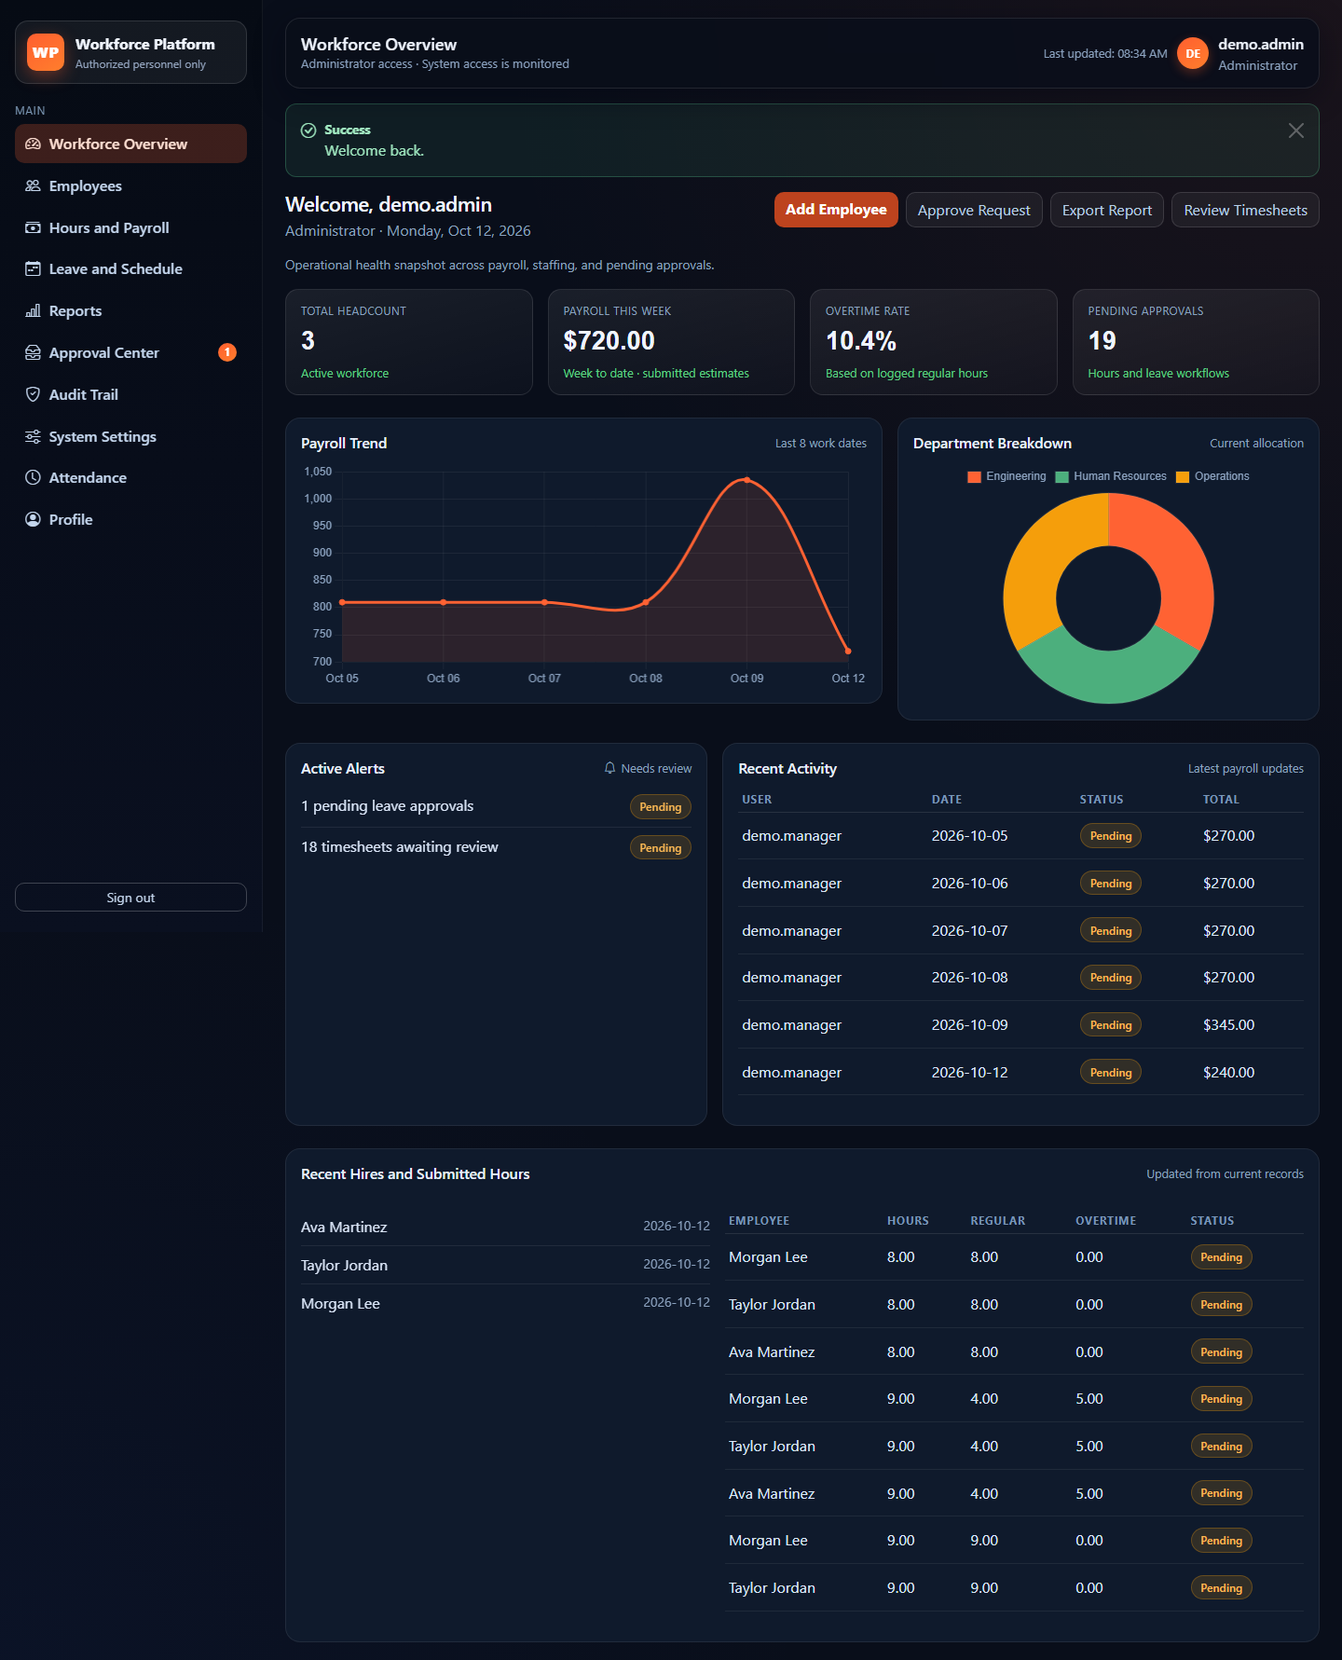
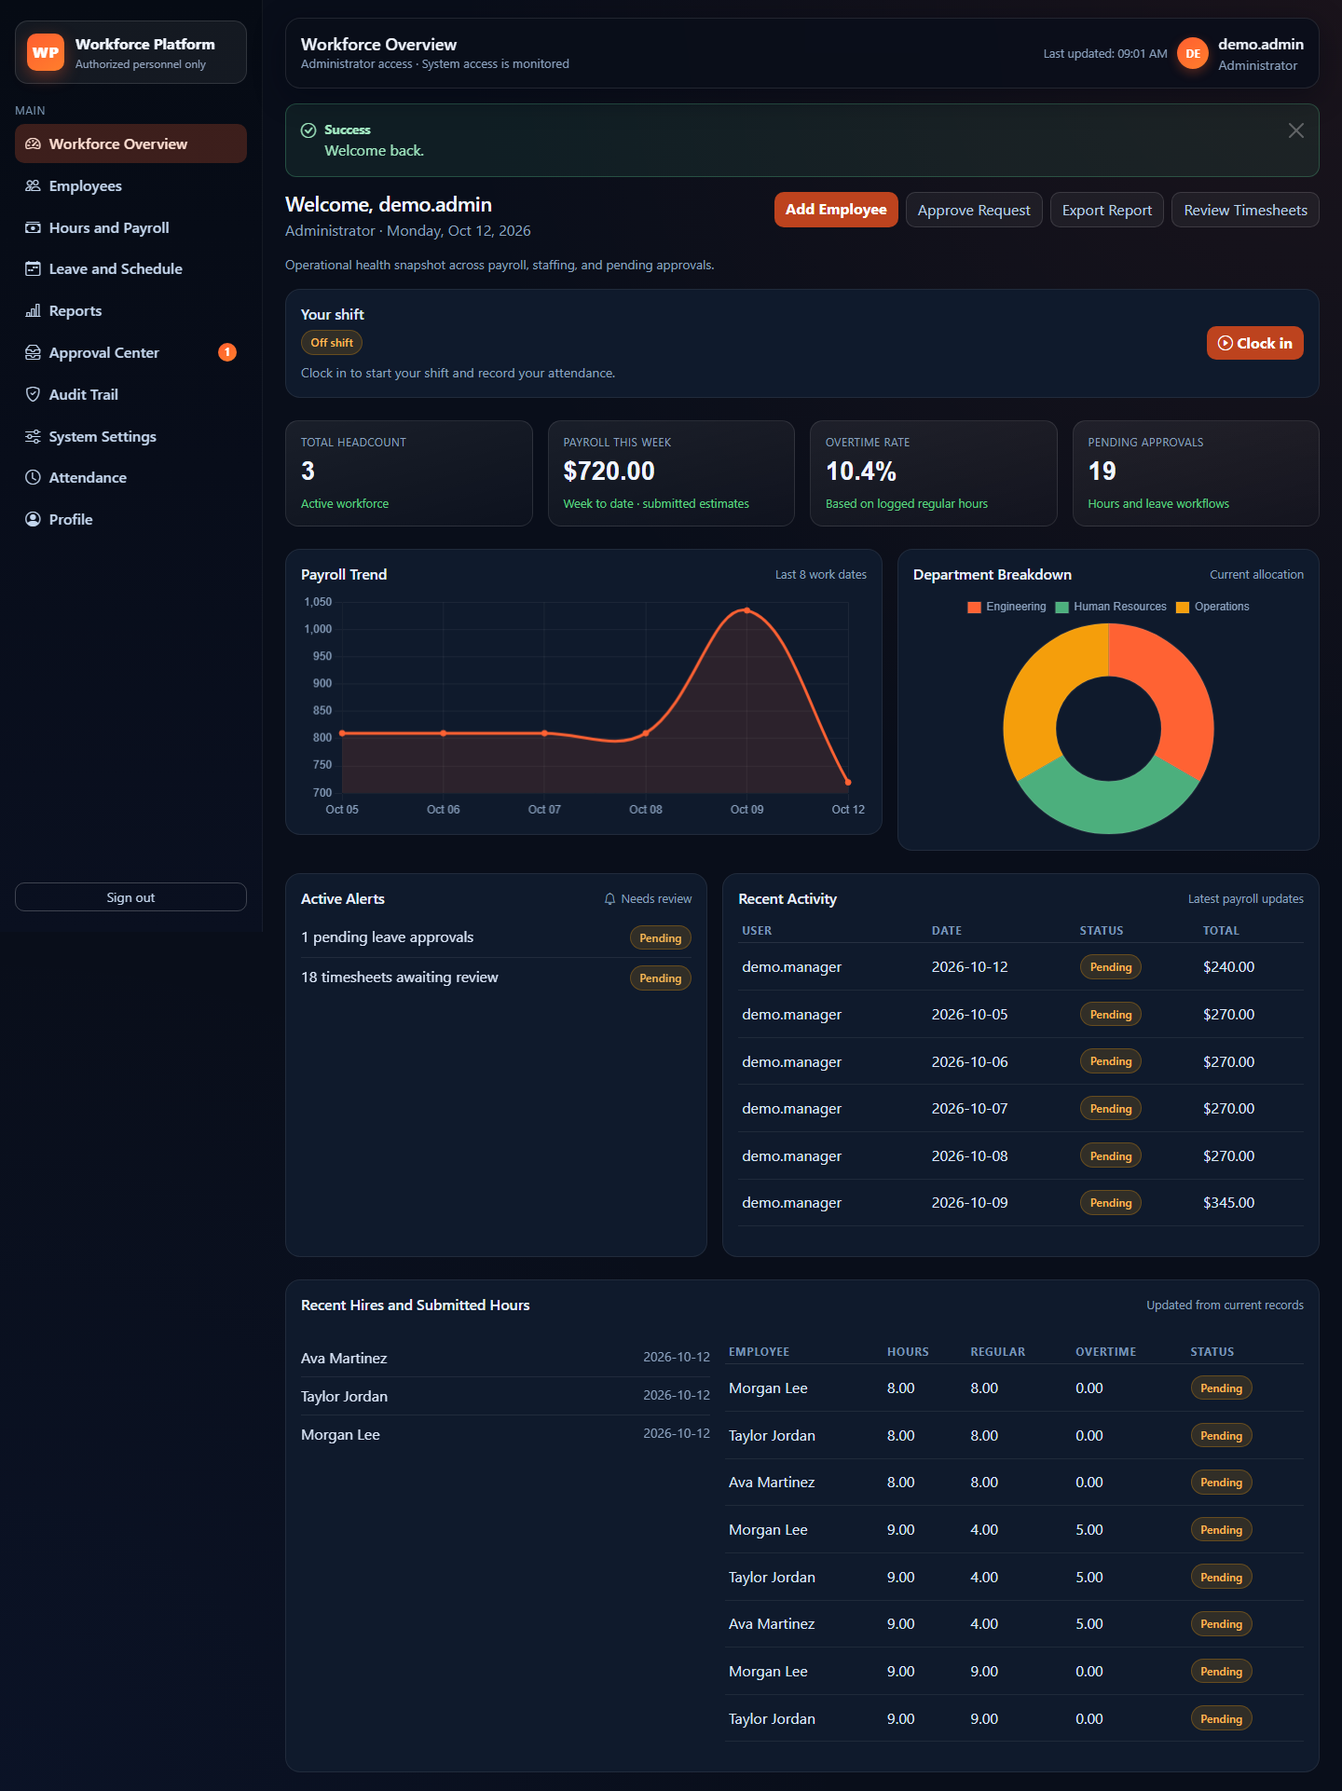
Add personal dashboard clock-in and clock-out actions

diff --git a/app/templates/_shift_clock.html b/app/templates/_shift_clock.html
@@ -1,0 +1,24 @@
+{% if shift_employee %}
+<section class="surface-card mb-4" aria-label="Your shift">
+  <div class="d-flex flex-wrap justify-content-between align-items-center gap-3">
+    <div>
+      <h2 class="h6 mb-2">Your shift</h2>
+      {% if active_shift %}
+        <span class="status-badge status-active">On shift</span>
+        <p class="small text-muted mb-0 mt-2">Started {{ active_shift.clock_in_at|localtime }}. Clock out when you finish.</p>
+      {% else %}
+        <span class="status-badge status-pending">Off shift</span>
+        <p class="small text-muted mb-0 mt-2">Clock in to start your shift and record your attendance.</p>
+      {% endif %}
+    </div>
+    <form method="post" action="{{ url_for('attendance.my_shift') }}">
+      <input type="hidden" name="csrf_token" value="{{ csrf_token() }}" />
+      <input type="hidden" name="action" value="{{ 'clock_out' if active_shift else 'clock_in' }}" />
+      <button type="submit" class="btn {{ 'btn-ghost' if active_shift else 'btn-primary' }}">
+        <i class="bi {{ 'bi-stop-circle' if active_shift else 'bi-play-circle' }}" aria-hidden="true"></i>
+        {{ 'Clock out' if active_shift else 'Clock in' }}
+      </button>
+    </form>
+  </div>
+</section>
+{% endif %}

diff --git a/app/templates/dashboard.html b/app/templates/dashboard.html
@@ -14,6 +14,8 @@
 
   <p class="section-note mb-3">Operational health snapshot across payroll, staffing, and pending approvals.</p>
 
+  {% include "_shift_clock.html" %}
+
   <div class="row g-3 mb-4">
     <div class="col-md-6 col-xl-3"><div class="kpi-card"><div class="kpi-label">Total Headcount</div><p class="kpi-value">{{ stats.employee_count }}</p><div class="kpi-meta">Active workforce</div></div></div>
     <div class="col-md-6 col-xl-3"><div class="kpi-card"><div class="kpi-label">Payroll This Week</div><p class="kpi-value">{{ stats.payroll_total_week|currency }}</p><div class="kpi-meta">Week to date · submitted estimates</div></div></div>
@@ -122,6 +124,8 @@
   {% endcall %}
 
   <p class="section-note mb-3">Track recent hours, pay estimates, and leave request updates.</p>
+
+  {% include "_shift_clock.html" %}
 
   <div class="row g-3 mb-4">
     <div class="col-md-6 col-xl-3"><div class="kpi-card"><div class="kpi-label">Hours Logged</div><p class="kpi-value">{{ my_summary.hours|hours if my_summary else '0.00' }}</p></div></div>

diff --git a/app/routes/attendance.py b/app/routes/attendance.py
@@ -12,6 +12,63 @@ from ..utils import get_current_employee, parse_date, parse_positive_int
 attendance_bp = Blueprint("attendance", __name__, url_prefix="/attendance")
 
 
+def _clock_shift(employee, action, destination):
+    if action not in {"clock_in", "clock_out"}:
+        abort(400, description="Choose clock in or clock out.")
+    if employee.archived:
+        abort(400, description="Archived employees cannot clock in or out.")
+    active_record = Attendance.query.filter_by(employee_id=employee.id, clock_out_at=None).first()
+    now = utcnow()
+    if action == "clock_in":
+        if active_record:
+            flash("You must clock out before starting a new shift.", "error")
+            return redirect(url_for(destination))
+        db.session.add(
+            Attendance(
+                employee_id=employee.id,
+                clock_in_at=now,
+                date=now.replace(tzinfo=timezone.utc)
+                .astimezone(ZoneInfo(current_app.config.get("WORKFORCE_TIMEZONE", "UTC")))
+                .date(),
+                status="In Progress",
+            )
+        )
+        action_type = "attendance_clocked_in"
+        description = f"{employee.full_name()} clocked in."
+        message = "Clocked in successfully."
+    else:
+        if not active_record:
+            flash("No active clock-in found for this employee.", "error")
+            return redirect(url_for(destination))
+        try:
+            active_record.complete_shift(now)
+        except ValueError as exc:
+            flash(str(exc), "error")
+            return redirect(url_for(destination))
+        action_type = "attendance_clocked_out"
+        description = (
+            f"{employee.full_name()} clocked out after {active_record.hours_worked} hours."
+        )
+        message = "Clocked out successfully."
+    create_audit_log(current_user, action_type, "Attendance", str(employee.id), description)
+    db.session.commit()
+    flash(message, "success")
+    return redirect(url_for(destination))
+
+
+@attendance_bp.route("/shift", methods=("POST",))
+@login_required
+def my_shift():
+    """Clock the signed-in person's own shift, regardless of management role."""
+    employee = get_current_employee()
+    if employee is None:
+        abort(403, description="Your account needs an employee profile to start a shift.")
+    destination = (
+        "employees.dashboard" if current_user.has_admin_access() else "employees.employee_dashboard"
+    )
+    return _clock_shift(employee, request.form.get("action"), destination)
+
+
 @attendance_bp.route("/", methods=("GET", "POST"))
 @login_required
 def index():
@@ -53,61 +110,7 @@ def index():
         if not selected_employee_id:
             abort(400, description="Your account needs an employee profile.")
         target_employee = db.get_or_404(Employee, int(selected_employee_id))
-        if target_employee.archived:
-            abort(400, description="Archived employees cannot clock in or out.")
-        if action == "clock_in":
-            active_record = Attendance.query.filter_by(
-                employee_id=target_employee.id, clock_out_at=None
-            ).first()
-            if active_record:
-                flash("You must clock out before starting a new shift.", "error")
-                return redirect(url_for("attendance.index"))
-
-            attendance = Attendance(
-                employee_id=target_employee.id,
-                clock_in_at=utcnow(),
-                date=utcnow()
-                .replace(tzinfo=timezone.utc)
-                .astimezone(ZoneInfo(current_app.config.get("WORKFORCE_TIMEZONE", "UTC")))
-                .date(),
-                status="In Progress",
-            )
-            db.session.add(attendance)
-            create_audit_log(
-                current_user,
-                "attendance_clocked_in",
-                "Attendance",
-                str(target_employee.id),
-                f"{target_employee.full_name()} clocked in.",
-            )
-            db.session.commit()
-            flash("Clocked in successfully.", "success")
-            return redirect(url_for("attendance.index"))
-
-        if action == "clock_out":
-            active_record = Attendance.query.filter_by(
-                employee_id=target_employee.id, clock_out_at=None
-            ).first()
-            if not active_record:
-                flash("No active clock-in found for this employee.", "error")
-                return redirect(url_for("attendance.index"))
-
-            try:
-                active_record.complete_shift(utcnow())
-            except ValueError as exc:
-                flash(str(exc), "error")
-                return redirect(url_for("attendance.index"))
-
-            create_audit_log(
-                current_user,
-                "attendance_clocked_out",
-                "Attendance",
-                str(target_employee.id),
-                f"{target_employee.full_name()} clocked out after {active_record.hours_worked} hours.",
-            )
-            db.session.commit()
-            flash("Clocked out successfully.", "success")
-            return redirect(url_for("attendance.index"))
+        return _clock_shift(target_employee, action, "attendance.index")
 
     attendance_query = Attendance.query.options(joinedload(Attendance.employee)).order_by(
         Attendance.clock_in_at.desc()

diff --git a/tests/test_shift_clock.py b/tests/test_shift_clock.py
@@ -1,0 +1,85 @@
+import re
+from datetime import timedelta
+
+import pytest
+from conftest import TEST_PASSWORD
+
+from app.extensions import db
+from app.models import Attendance, AuditLog, Role, User, utcnow
+
+
+def login(client):
+    return client.post("/login", data={"username": "admin_user", "password": TEST_PASSWORD})
+
+
+@pytest.mark.parametrize("role", Role.CHOICES)
+def test_dashboard_shift_clock_is_own_scoped_for_every_role(client, app, users, role):
+    with app.app_context():
+        db.session.get(User, users["admin_id"]).role = role
+        db.session.commit()
+    login(client)
+    dashboard = "/employee/dashboard" if role == Role.EMPLOYEE else "/dashboard"
+    page = client.get(dashboard)
+    assert b"Your shift" in page.data and b"Off shift" in page.data
+    response = client.post(
+        "/attendance/shift",
+        data={"action": "clock_in", "employee_id": users["employee_profile_id"]},
+    )
+    assert response.location.endswith(dashboard)
+    assert b"On shift" in client.get(dashboard).data
+    assert b"Clock out" in client.get(dashboard).data
+    client.post("/attendance/shift", data={"action": "clock_in"})
+    with app.app_context():
+        shift = Attendance.query.one()
+        assert shift.employee_id == users["admin_employee_id"]
+        shift.clock_in_at = utcnow() - timedelta(hours=2, minutes=15)
+        db.session.commit()
+    response = client.post("/attendance/shift", data={"action": "clock_out"})
+    assert response.location.endswith(dashboard)
+    assert b"Off shift" in client.get(dashboard).data
+    with app.app_context():
+        shift = Attendance.query.one()
+        assert shift.status == "Completed" and shift.hours_worked == 2.25
+        assert AuditLog.query.filter_by(action_type="attendance_clocked_in").count() == 1
+        assert AuditLog.query.filter_by(action_type="attendance_clocked_out").count() == 1
+
+
+def test_dashboard_shift_status_does_not_use_another_employee(client, app, users):
+    with app.app_context():
+        db.session.add(Attendance(employee_id=users["employee_profile_id"], clock_in_at=utcnow()))
+        db.session.commit()
+    login(client)
+    page = client.get("/dashboard")
+    assert b"Off shift" in page.data and b">On shift<" not in page.data
+    client.post("/attendance/shift", data={"action": "clock_out"})
+    with app.app_context():
+        assert Attendance.query.one().clock_out_at is None
+
+
+def test_shift_clock_requires_authentication_profile_and_valid_action(client, app, users):
+    assert client.post("/attendance/shift", data={"action": "clock_in"}).status_code == 302
+    login(client)
+    assert client.get("/attendance/shift").status_code == 405
+    assert client.post("/attendance/shift", data={"action": "delete"}).status_code == 400
+    with app.app_context():
+        db.session.get(User, users["admin_id"]).employee_id = None
+        db.session.commit()
+    assert client.post("/attendance/shift", data={"action": "clock_in"}).status_code == 403
+    with app.app_context():
+        assert Attendance.query.count() == 0
+
+
+def test_dashboard_shift_clock_requires_csrf(client, app, users):
+    login(client)
+    app.config["WTF_CSRF_ENABLED"] = True
+    assert client.post("/attendance/shift", data={"action": "clock_in"}).status_code == 400
+    page = client.get("/dashboard")
+    token = re.search(rb'name="csrf_token" value="([^"]+)"', page.data).group(1).decode()
+    assert (
+        client.post(
+            "/attendance/shift", data={"action": "clock_in", "csrf_token": token}
+        ).status_code
+        == 302
+    )
+    with app.app_context():
+        assert Attendance.query.one().employee_id == users["admin_employee_id"]

diff --git a/scripts/browser_smoke.py b/scripts/browser_smoke.py
@@ -79,15 +79,23 @@ def main():
                 capture(page, "employee-workspace")
                 completed.append("Employee sign-in with CSRF")
 
-                page.goto(origin + "/attendance/")
-                page.get_by_role("button", name="Clock In", exact=True).click()
+                page.get_by_role("region", name="Your shift").get_by_role(
+                    "button", name="Clock in", exact=True
+                ).click()
+                expect(page).to_have_url(origin + "/employee/dashboard")
+                expect(page.get_by_text("On shift", exact=True)).to_be_visible()
                 with app.app_context():
                     Attendance.query.one().clock_in_at = utcnow() - timedelta(hours=2)
                     db.session.commit()
-                page.get_by_role("button", name="Clock Out", exact=True).click()
+                page.reload()
+                page.get_by_role("region", name="Your shift").get_by_role(
+                    "button", name="Clock out", exact=True
+                ).click()
                 expect(page.get_by_text("Clocked out successfully.", exact=True)).to_be_visible()
+                expect(page.get_by_text("Off shift", exact=True)).to_be_visible()
+                page.goto(origin + "/attendance/")
                 capture(page, "attendance")
-                completed.append("Attendance clock-in and clock-out")
+                completed.append("Dashboard shift start/end and attendance history")
 
                 page.goto(origin + "/leave/new")
                 page.get_by_label("Leave Type").select_option("Vacation")
@@ -105,6 +113,15 @@ def main():
                 page.get_by_role("button", name="Sign In", exact=True).click()
                 expect(page).to_have_url(origin + "/dashboard")
                 capture(page, "dashboard")
+                page.get_by_role("region", name="Your shift").get_by_role(
+                    "button", name="Clock in", exact=True
+                ).click()
+                expect(page).to_have_url(origin + "/dashboard")
+                expect(page.get_by_text("On shift", exact=True)).to_be_visible()
+                page.get_by_role("region", name="Your shift").get_by_role(
+                    "button", name="Clock out", exact=True
+                ).click()
+                expect(page.get_by_text("Off shift", exact=True)).to_be_visible()
                 completed.append("Logout and administrator sign-in")
 
                 page.goto(origin + "/employees/new")

diff --git a/app/routes/employees.py b/app/routes/employees.py
@@ -142,6 +142,10 @@ def dashboard():
         alerts=alerts,
         recent_hires=recent_hires,
         activity_logs=activity_logs,
+        shift_employee=get_current_employee(),
+        active_shift=Attendance.query.filter_by(
+            employee_id=current_user.employee_id, clock_out_at=None
+        ).first(),
     )
 
 
@@ -186,6 +190,8 @@ def employee_dashboard():
         my_summary=summary,
         next_shift=next_shift,
         stats=None,
+        shift_employee=profile,
+        active_shift=Attendance.query.filter_by(employee_id=profile.id, clock_out_at=None).first(),
     )
 
 

diff --git a/docs/VERIFICATION.md b/docs/VERIFICATION.md
@@ -4,9 +4,9 @@ Final local verification was completed on October 12, 2026, on Windows with Pyth
 
 | Check | Executed result |
 |---|---|
-| `python -m pytest -q` | **102 passed, 0 failed**, 30.09 seconds |
+| `python -m pytest -q` | **111 passed, 0 failed**, 37.42 seconds after the dashboard shift-clock addition |
 | Ruff lint | All checks passed |
-| Ruff formatting | 37 Python files already formatted |
+| Ruff formatting | 38 Python files already formatted |
 | Bandit, application/config/startup | 0 unsuppressed findings; two B105 annotations identify validation messages mistaken for password literals |
 | `pip-audit -r requirements.txt` | 27 resolved runtime packages, 0 known vulnerabilities at the time of the audit |
 | Dependency installation / `pip check` | Clean environment installation and dependency consistency passed |
@@ -16,7 +16,9 @@ Final local verification was completed on October 12, 2026, on Windows with Pyth
 | Disposable original-database migration | All original values and rows in eight tables preserved; foreign-key check passed; original file hash unchanged |
 | Chromium browser verification | Nine workflow checks passed, 0 browser errors; 14 real screenshots captured |
 
-The browser script exercised employee login with CSRF, attendance clock-in/out, leave submission, POST logout, administrator login, employee creation/search/edit/profile, cross-day overtime and payroll approval, leave approval, inbox/audit pages, CSV/PDF downloads, and mobile dashboard/directory/payroll without horizontal page overflow. Screenshots use synthetic records only.
+The browser script exercised employee login with CSRF, dashboard clock-in/out for both employee and administrator accounts, persisted shift status after reload, attendance history, leave submission, POST logout, administrator login, employee creation/search/edit/profile, cross-day overtime and payroll approval, leave approval, inbox/audit pages, CSV/PDF downloads, and mobile dashboard/directory/payroll without horizontal page overflow. Screenshots use synthetic records only.
+
+Nine shift-clock regressions verify all six account roles can clock their own shifts, submitted employee IDs cannot target another person, duplicate starts do not create extra shifts, worked hours and audit entries are recorded, and authentication, profile linkage, valid actions, and CSRF are required. The attendance-management permission rules are unchanged.
 
 The automated tests additionally cover role and ownership restrictions, employee archival and retained history, login throttling, hostile redirect variants, invalid numerical input, partial workweeks, compensation snapshots, correction-driven approval resets, voiding, formula-safe CSV, UTC offsets, leave overlap triggers, duplicate active shifts, foreign keys, optimistic concurrency, trusted administration commands, fresh/legacy migrations, invalid-data migration refusal, and destructive downgrade refusal.
 

diff --git a/docs/BUSINESS_RULES.md b/docs/BUSINESS_RULES.md
@@ -14,6 +14,8 @@ Pending and reviewed entries shown in reports are **estimates**, not completed d
 
 ## Attendance
 
+Every linked account can use **Your shift** on its dashboard to clock in and out of its own shift. The status changes from Off shift to On shift and shows the start time in the configured timezone. The personal clock always uses the signed-in employee identity, including for management roles; submitted employee IDs cannot target someone else. Management attendance permissions remain separate.
+
 Clock events use server time in UTC. The database stores naive UTC datetimes; the UI shows the configured IANA timezone and records the clock-in date in that timezone. API timestamps include an explicit UTC offset. Offset-aware corrections are normalized to UTC. Duplicate active shifts are prohibited by a partial unique index, including under concurrent insert attempts.
 
 Clock-out must follow clock-in, a completed shift cannot be completed again, and a shift cannot exceed 24 hours. Overnight shifts are allowed within that limit. Attendance does not write payroll automatically; users submit reviewed daily timesheet totals separately and allocate overnight work to the applicable dates.

diff --git a/README.md b/README.md
@@ -17,7 +17,7 @@ Small teams often track employee details, hours, attendance, and leave in separa
 - Employee directory with search, department/role/status filters, profiles, editing, and archival that preserves records.
 - Employee-only registration, hashed passwords, CSRF-protected sessions, login throttling, and explicit CLI administration.
 - Daily timesheet totals, Monday–Sunday overtime allocation, decimal monetary calculations, submitted rate snapshots, and approval resets after corrections.
-- Clock-in/out with UTC storage, configurable display timezone, and a database constraint preventing duplicate active shifts.
+- Dashboard clock-in/out with personal shift status, UTC storage, configurable display timezone, and a database constraint preventing duplicate active shifts.
 - Leave date validation, overlap prevention at both application and database levels, authorized reviews, and self-approval protection.
 - Private notification inboxes, searchable audit logs, charts, and CSV/PDF exports with empty-dataset handling.
 - Paginated, authenticated read-only JSON APIs for employees, payroll, and attendance.
